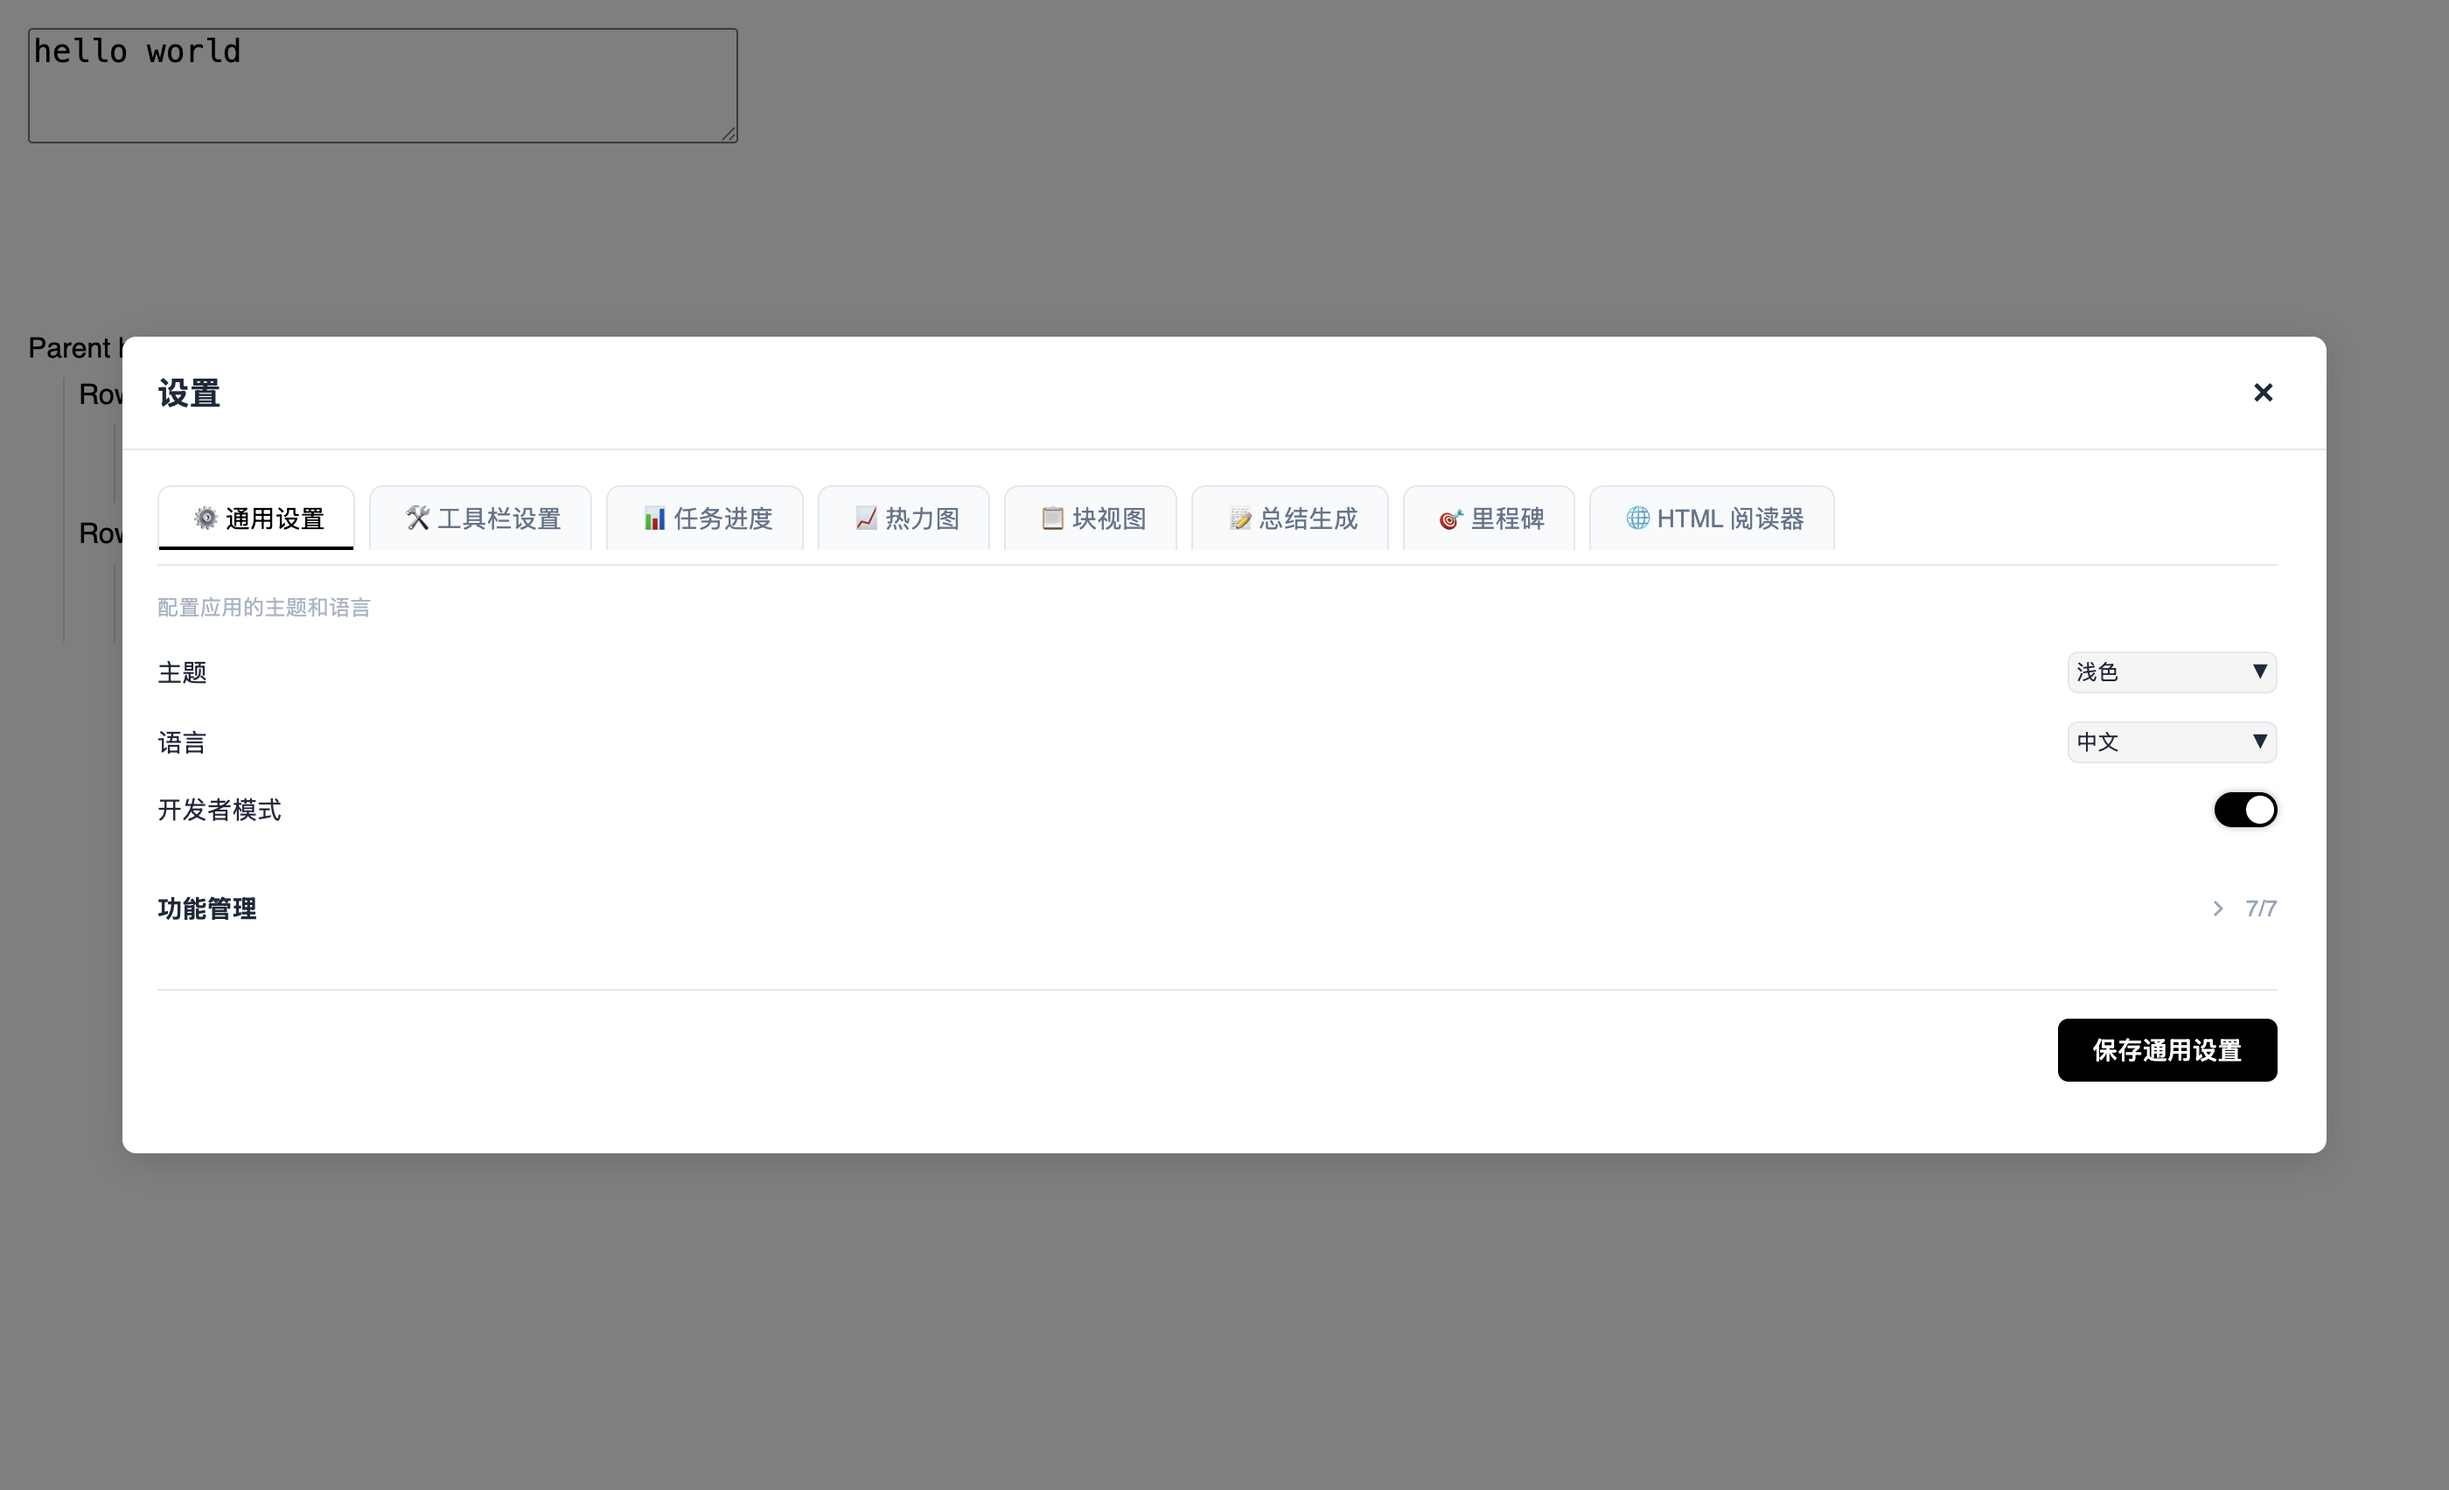
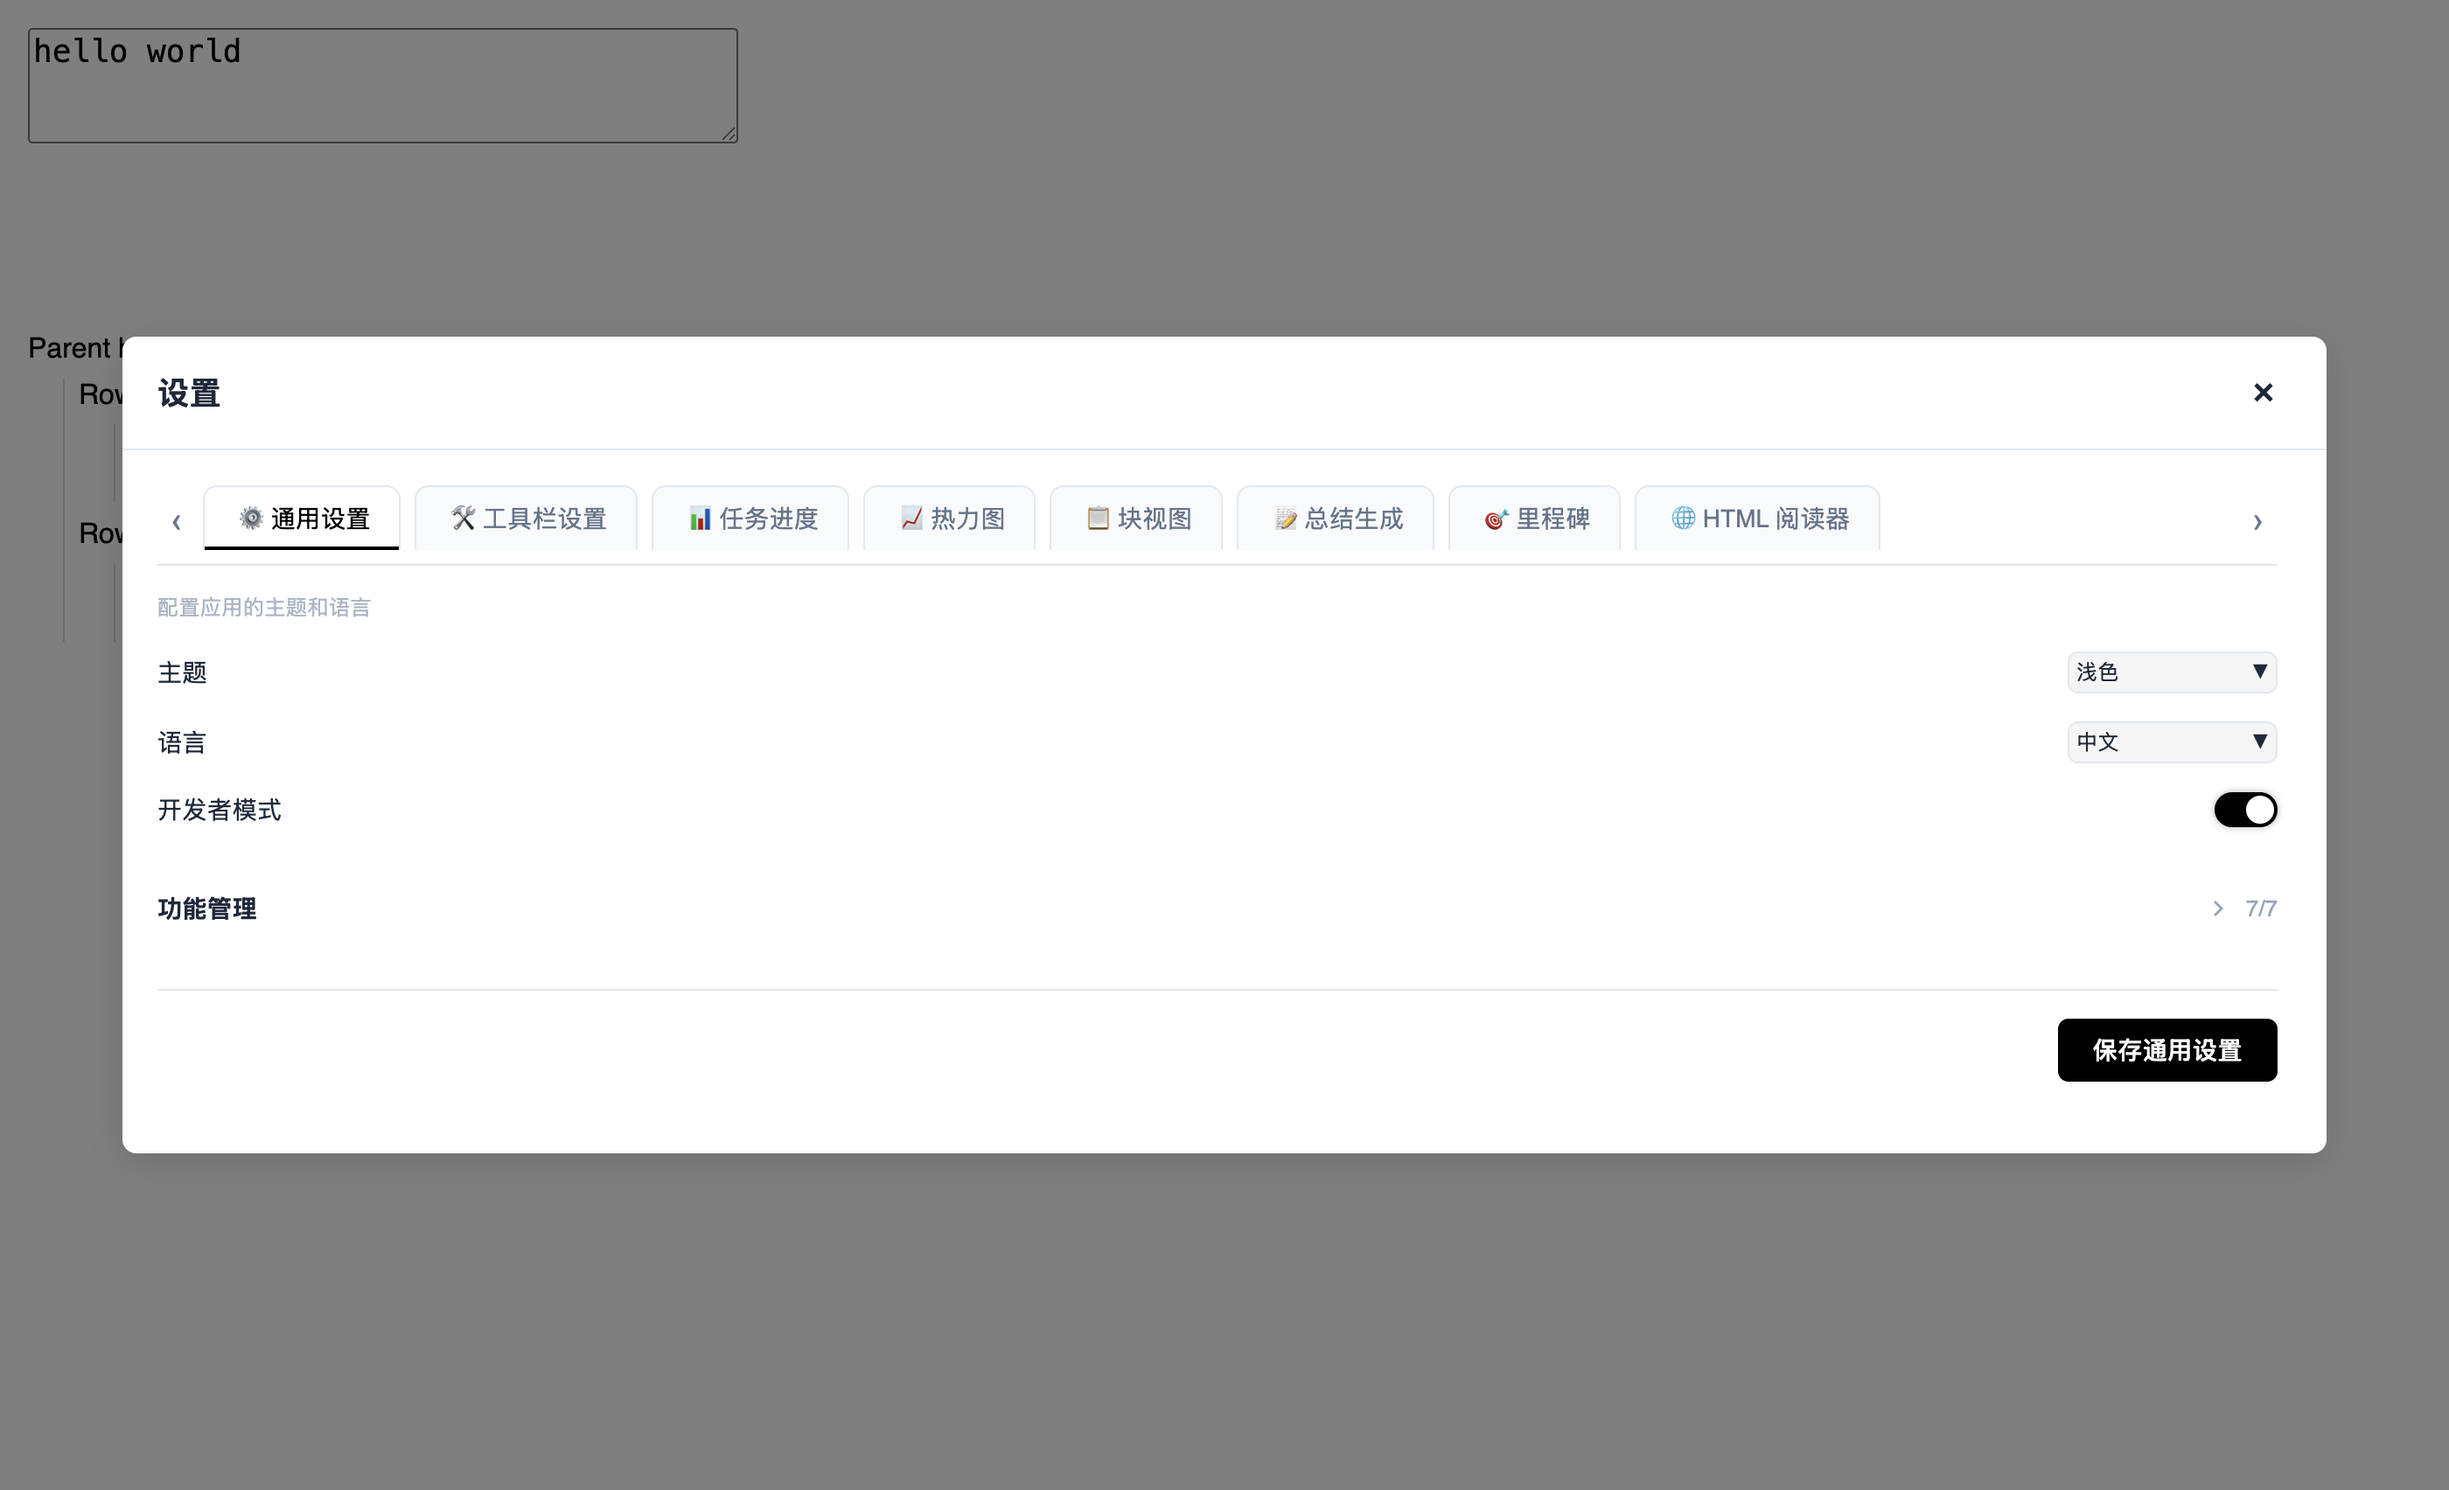
fix: keep settings tabs on one scrollable row
Restore single-row settings tabs with left/right scroll buttons, active-tab auto-scroll and a thin scrollbar. Refresh settings screenshots and report; bump to 1.2.12.

Changed region(s): [[0.0621, 0.3421, 0.7768, 0.3732]]

diff --git a/docs/testing/reports/2026-10-19-functional-test-report.html b/docs/testing/reports/2026-10-19-functional-test-report.html
@@ -48,14 +48,14 @@
   <div class="badges">
     <span class="badge">E2E 25/25 PASS</span>
     <span class="badge">Vitest 718/718 PASS</span>
-    <span class="badge">plugin 1.2.10</span>
+    <span class="badge">plugin 1.2.12</span>
     <span class="badge">min SDK 0.3.1+</span>
   </div>
 </header>
 <p class="notice">截图来自 Electron Host mock，不是真实 Logseq 成品 UI。真实 Logseq 仍需按 <a href="../../architecture/Real-Logseq-Smoke-Test.md">Real-Logseq-Smoke-Test.md</a> 做发版前人工确认。</p>
 
 <h2>真实 Logseq 2.0.2 Smoke</h2>
-<div class="notice"><strong>2026-10-20 真实 test DB 图 smoke：</strong>设置打开/切换/关闭、8 Tab 换行、选中文本工具栏、评论弹窗输入/关闭、HTML asset 预览按钮、HTML 读取、HTML 标注写入 asset 子块、Dashboard block UUID 均通过。真实测试新增了 <code>HTML Test</code> 页面、HTML asset、测试标注块和少量测试文本。</div>
+<div class="notice"><strong>2026-10-20 真实 test DB 图 smoke：</strong>设置打开/切换/关闭、单行 Tab + 箭头滚动、选中文本工具栏、评论弹窗输入/关闭、HTML asset 预览按钮、HTML 读取、HTML 标注写入 asset 子块、Dashboard block UUID 均通过。真实测试新增了 <code>HTML Test</code> 页面、HTML asset、测试标注块和少量测试文本。</div>
 <h2>结果总览</h2>
 <div class="stat">
   <div class="card"><span>Electron 主功能</span><strong>13/13</strong><span>PASS</span></div>
@@ -67,7 +67,7 @@
 <p style="margin-top:14px"><span class="ok">Vitest 80 files / 718 tests passed</span></p>
 
 <h2>环境</h2>
-<table><tbody><tr><td>OS</td><td>macOS 26.3.2 (Build 25D2150)</td></tr><tr><td>Electron</td><td>42.11.15</td></tr><tr><td>Chromium</td><td>148.0.7778.280</td></tr><tr><td>Node.js</td><td>24.17.0</td></tr><tr><td>Plugin</td><td>logseq-text-toolkit 1.2.10</td></tr><tr><td>SDK floor</td><td>@logseq/libs 0.3.1+ / host 2.0.2</td></tr><tr><td>Runner</td><td>scripts/e2e (Electron + Host mock)</td></tr></tbody></table>
+<table><tbody><tr><td>OS</td><td>macOS 26.3.2 (Build 25D2150)</td></tr><tr><td>Electron</td><td>42.11.15</td></tr><tr><td>Chromium</td><td>148.0.7778.280</td></tr><tr><td>Node.js</td><td>24.17.0</td></tr><tr><td>Plugin</td><td>logseq-text-toolkit 1.2.12</td></tr><tr><td>SDK floor</td><td>@logseq/libs 0.3.1+ / host 2.0.2</td></tr><tr><td>Runner</td><td>scripts/e2e (Electron + Host mock)</td></tr></tbody></table>
 
 <h2>套件结果</h2>
 <table><thead><tr><th>套件</th><th>通过</th><th>覆盖</th></tr></thead><tbody><tr><td>主功能套件</td><td class="num pass">13/13</td><td>插件注册、设置、选区工具栏、评论、BlockView、TaskProgress、Heatmap、Milestone、Summary、slash commands</td></tr><tr><td>Summary 专项</td><td class="num pass">3/3</td><td>自定义日期范围、年度模板/页面名、同名总结安全替换</td></tr><tr><td>HTML 阅读器</td><td class="num pass">5/5</td><td>附件列表、文字标注、高亮、面板控制、Dashboard、持久化</td></tr><tr><td>旧 Host fallback</td><td class="num pass">2/2</td><td>无 onInputSelectionEnd；原生 textarea 选区</td></tr><tr><td>SDK 静默 fallback</td><td class="num pass">2/2</td><td>暴露 SDK hook 但从不发事件；原生选区仍可用</td></tr></tbody></table>

diff --git a/src/components/SettingsModal/index.tsx b/src/components/SettingsModal/index.tsx
@@ -1,4 +1,4 @@
-import React, { useState, useEffect } from 'react'
+import React, { useState, useEffect, useRef } from 'react'
 import { motion, AnimatePresence } from 'framer-motion'
 import Modal from '../Modal/index'
 import { useSettingsContext } from '../../settings/useSettings'
@@ -43,6 +43,8 @@ function SettingsModal({ isOpen, onClose, theme }: SettingsModalProps) {
   
   const [settings, setSettings] = useState<Settings | null>(null)
   const [activeTab, setActiveTab] = useState('general')
+  const tabsRef = useRef<HTMLDivElement>(null)
+  const activeTabRef = useRef<HTMLButtonElement>(null)
 
   useEffect(() => {
     if (isOpen) {
@@ -106,6 +108,14 @@ function SettingsModal({ isOpen, onClose, theme }: SettingsModalProps) {
     }
   }, [tabs, activeTab])
 
+  useEffect(() => {
+    activeTabRef.current?.scrollIntoView({ block: 'nearest', inline: 'center' })
+  }, [activeTab])
+
+  const scrollTabs = (direction: -1 | 1) => {
+    tabsRef.current?.scrollBy({ left: direction * 220, behavior: 'smooth' })
+  }
+
   if (isLoading) {
     return (
       <Modal isOpen={isOpen} onClose={onClose} title={t('settings.title')} theme={theme}>
@@ -124,22 +134,28 @@ function SettingsModal({ isOpen, onClose, theme }: SettingsModalProps) {
 
   const TabComponent = tabs.find(tab => tab.id === activeTab)?.component
 
+
   return (
     <Modal isOpen={isOpen} onClose={onClose} title={t('settings.title', language)} theme={modalTheme}>
       <div className="ltt-settings-container" data-theme={modalTheme}>
         <div className="ltt-settings-header">
-          <div className="ltt-settings-tabs">
-          {tabs.map(tab => (
-            <button 
-              key={tab.id}
-              className={`ltt-settings-tab ${activeTab === tab.id ? 'active' : ''}`}
-              onClick={() => setActiveTab(tab.id)}
-            >
-              <span style={{ marginRight: '4px' }}>{tab.icon}</span>
-              {tab.label}
-            </button>
-          ))}
-        </div>
+          <div className="ltt-settings-tabs-shell">
+            <button type="button" className="ltt-settings-tabs-scroll" onClick={() => scrollTabs(-1)} aria-label="previous settings tab">‹</button>
+            <div className="ltt-settings-tabs" ref={tabsRef}>
+              {tabs.map(tab => (
+                <button
+                  key={tab.id}
+                  ref={activeTab === tab.id ? activeTabRef : undefined}
+                  className={`ltt-settings-tab ${activeTab === tab.id ? 'active' : ''}`}
+                  onClick={() => setActiveTab(tab.id)}
+                >
+                  <span style={{ marginRight: '4px' }}>{tab.icon}</span>
+                  {tab.label}
+                </button>
+              ))}
+            </div>
+            <button type="button" className="ltt-settings-tabs-scroll" onClick={() => scrollTabs(1)} aria-label="next settings tab">›</button>
+          </div>
         </div>
 
         <div className="ltt-settings-content">

diff --git a/src/components/SettingsModal/settingsModal.css b/src/components/SettingsModal/settingsModal.css
@@ -547,19 +547,50 @@
   margin-bottom: 16px;
 }
 
+.ltt-settings-tabs-shell {
+  display: flex;
+  align-items: flex-end;
+  gap: 4px;
+  border-bottom: 1px solid var(--ltt-border, #e0e0e0);
+  margin-bottom: 16px;
+  padding-bottom: 8px;
+}
+
 .ltt-settings-tabs {
   display: flex;
+  flex: 1;
   gap: 8px;
-  margin-bottom: 16px;
-  border-bottom: 1px solid var(--ltt-border, #e0e0e0);
-  padding-bottom: 8px;
-  flex-wrap: wrap;
-  overflow-x: visible;
-  -ms-overflow-style: none;
+  flex-wrap: nowrap;
+  overflow-x: auto;
+  scrollbar-width: thin;
+  scroll-behavior: smooth;
 }
 
 .ltt-settings-tabs::-webkit-scrollbar {
-  display: none;
+  height: 4px;
+}
+
+.ltt-settings-tabs::-webkit-scrollbar-thumb {
+  background: var(--ltt-border, #d0d5dd);
+  border-radius: 999px;
+}
+
+.ltt-settings-tabs-scroll {
+  flex: 0 0 auto;
+  width: 22px;
+  height: 34px;
+  border: 0;
+  border-radius: 6px;
+  background: transparent;
+  color: var(--ltt-text-secondary, #667085);
+  cursor: pointer;
+  font-size: 18px;
+  line-height: 1;
+}
+
+.ltt-settings-tabs-scroll:hover {
+  background: var(--ltt-bg-secondary, #f5f5f5);
+  color: var(--ltt-text-primary, #333);
 }
 
 .ltt-settings-tab {

diff --git a/docs/testing/reports/2026-10-19-functional-test-report.md b/docs/testing/reports/2026-10-19-functional-test-report.md
@@ -1,7 +1,7 @@
 # Text Toolkit 功能测试报告
 
 - **日期**：2026-10-19
-- **插件版本**：1.2.10
+- **插件版本**：1.2.12
 - **测试方式**：Electron 42 + Host mock，加载真实 `dist/index.js`
 - **结果**：**E2E 25/25 PASS；单元/集成 718/718 PASS**
 
@@ -15,7 +15,7 @@
 | Electron | 42.11.15 |
 | Chromium | 148.0.7778.280 |
 | Node.js | 24.17.0 |
-| Plugin | logseq-text-toolkit 1.2.10 |
+| Plugin | logseq-text-toolkit 1.2.12 |
 | SDK floor | @logseq/libs 0.3.1+ / host 2.0.2 |
 | Runner | scripts/e2e (Electron + Host mock) |
 
@@ -24,7 +24,7 @@
 2026-10-20 在真实 Logseq 2.0.2 test DB 图（`test`）完成一轮 smoke：
 
 - 设置按钮可以打开、切换 Tab、关闭，不再被不可见 modal overlay 阻挡
-- 8 个设置 Tab 自动换行，HTML 阅读器不再被挤到水平滚动区外
+- 8 个设置 Tab 保持单行，左右箭头滚动，HTML 阅读器可到达
 - 选中文本后选区工具栏出现（`Editor.onInputSelectionEnd`）
 - 评论弹窗可输入、可关闭，不再被低 z-index / pointer-events 阻挡
 - 真实 `assets/*.html` 可以通过 `Assets.makeUrl()` 读取并渲染

diff --git a/README.md b/README.md
@@ -285,7 +285,7 @@
 2. 点击 **从 URL 加载插件**
 3. 输入：`https://github.com/duiliuliu/logseq-text-toolkit/`
 
-> 当前版本 **1.2.10**，面向 Logseq DB 图，`minSDKVersion` 为 `0.3.1`；文件图不支持。
+> 当前版本 **1.2.12**，面向 Logseq DB 图，`minSDKVersion` 为 `0.3.1`；文件图不支持。
 
 ---
 

diff --git a/README.en.md b/README.en.md
@@ -43,7 +43,7 @@ views, summaries, HTML reading/annotation and AI-generated dashboards.
 2. **Load plugin from URL**
 3. Enter `https://github.com/duiliuliu/logseq-text-toolkit/`
 
-Current version: **1.2.10**.
+Current version: **1.2.12**.
 
 ### Text formatting
 
